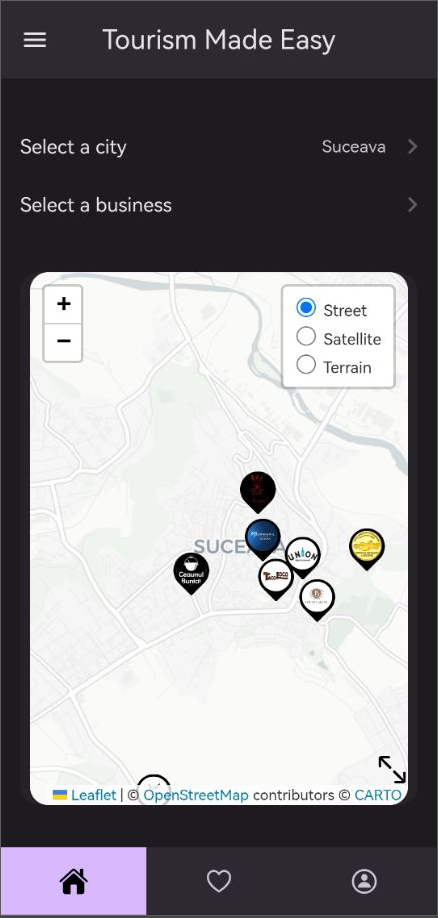
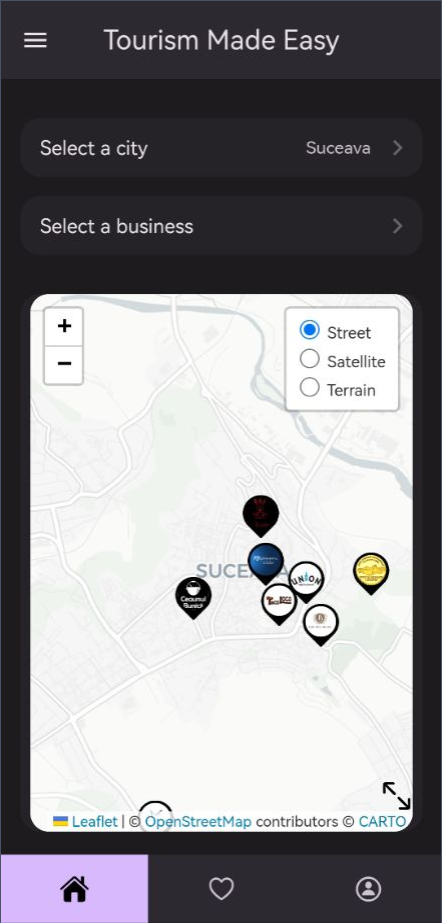
imp

diff --git a/www/home.html b/www/home.html
@@ -39,7 +39,7 @@
         <!-- Page Content -->
         <div class="page-content">
             <div class="list list-strong-ios list-outline-ios list-dividers-ios">
-                <a href="#" class="item-link smart-select smart-select-init" data-open-in="popup" data-searchbar="true" data-searchbar-placeholder="Search for a city...">
+                <a href="#" class="item-link smart-select smart-select-init card" data-open-in="popup" data-searchbar="true" data-searchbar-placeholder="Search for a city...">
                     <select name="select-cities">
                         ${cities.map((city) => $h`
                         <option value="${city.id}">${city.name}</option>
@@ -52,7 +52,7 @@
                         </div>
                     </div>
                 </a>
-                <a class="item-link smart-select smart-select-init" data-open-in="popup" data-searchbar="true"
+                <a class="item-link smart-select smart-select-init card" data-open-in="popup" data-searchbar="true"
                    data-searchbar-placeholder="Search business" style="display: none;" id="business-select-container">
                     <select name="select-businesses" id="select-businesses"></select>
                     <div class="item-content">
